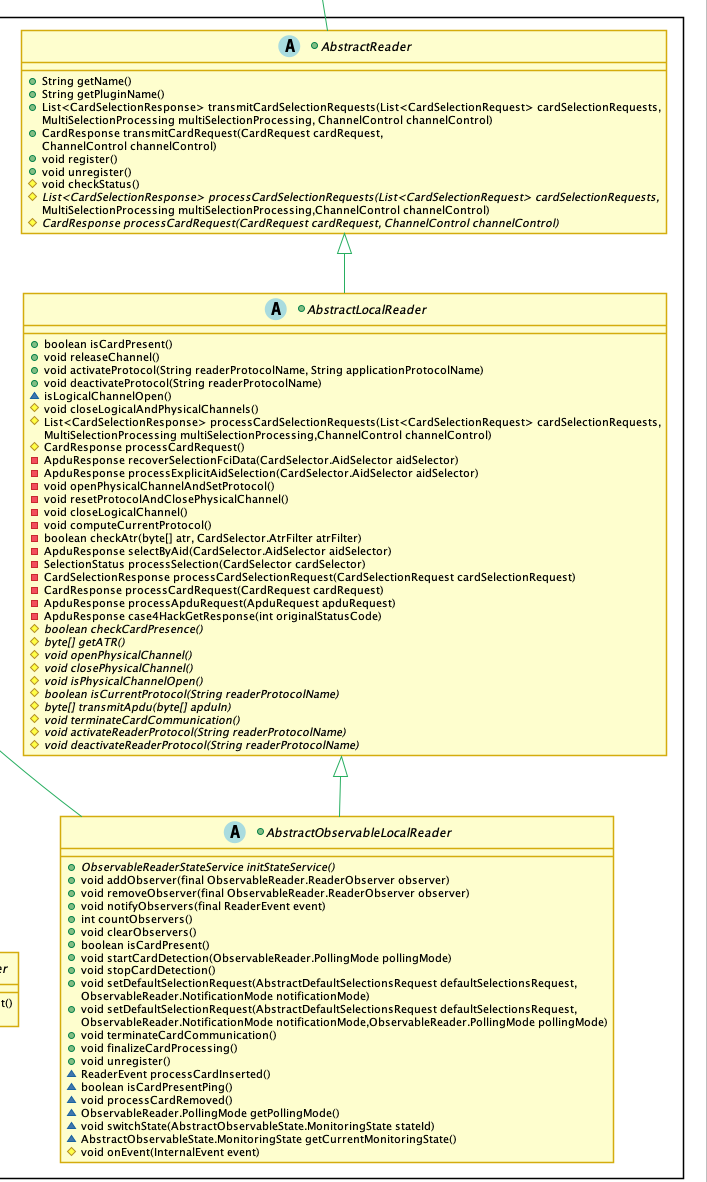
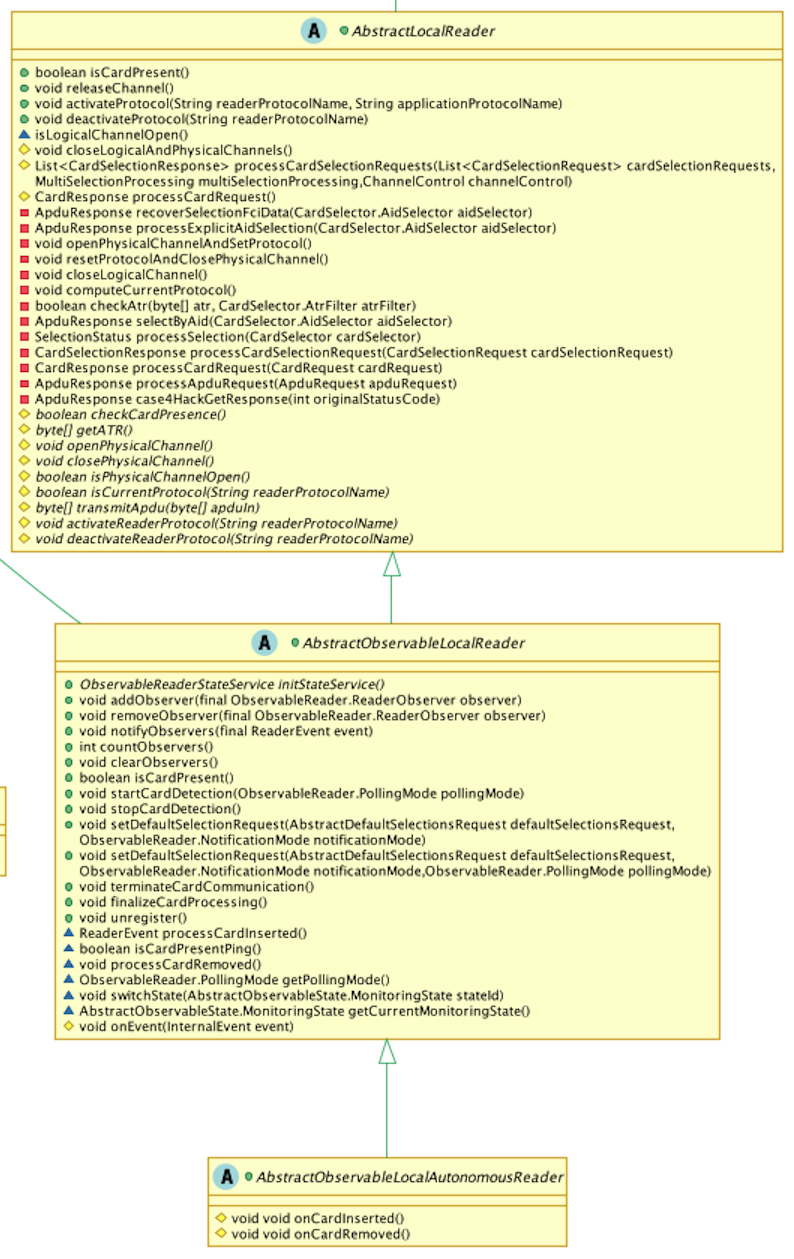
WIP Plugin documentation

diff --git a/content/docs/developer-guide/develop-plugin.md b/content/docs/developer-guide/develop-plugin.md
@@ -9,7 +9,7 @@ weight: 330
 ## Overview
 In order to provide an easy way to port a Keyple applications from a device with a specific card reader to another, a plugin system
 as been developed. When a developer wants to include Keyple features within his project, he has to initialize the SmartCardService by providing a
-plugin Factory available with in the plugin components. The plugin to use depends on the target device and running environment.
+plugin Factory available with in the plugin library. The plugin to use depends on the targeted device and running environment.
 
 For example, for an android device with native NFC we'll use KeypleAndroidNfcPlugin.
 
@@ -26,14 +26,18 @@ Keyple is already provided with various plug-ins ready to use. For example Andro
 But users of the Keyple API may need to use it on new hardware not covered with existing plugins. In this case, a new 
 one must be developed. 
 
-The purpose of this guide is to accompany developers in this process.   
+The purpose of this guide is to support developers in this process.
 
 ## Class diagram of plugin package
+
+For the record, this is a wide view of classes implied in the plugin system. It is designed to natively handle as much 
+use cas as possible while being easy to use. It results of several internal classes, however, plugin's developers will 
+only have to use a few part of this elements.
 
 {{< figure library="true" src="plugin-development/class/Plugin_Class_Full.png" title="" >}} 
 
 ## Steps
-Plugin development relies on 3 main steps, each one consinsiting of implementing a set of abstract classes and methods of
+Plugi'sn development relies on 3 main steps, each one consists in implementing a few set of abstract classes and interfaces of
 plugin package from Keyple Core API:
 1. Import Keyple dependency
 1. Implement a Keyple Reader
@@ -50,14 +54,17 @@ implementation "org.eclipse.keyple:keyple-java-core:$keyple_version"
 
 ## Implement Keyple Reader
 The first step of a Keyple plugin development is the implementation of Keyple Reader Interface (org.eclipse.keyple.core.Reader). 
-This implementation with use hardware's native smartcard sdk to map interface used by Keyple API. 
+This implementation should use device's native smartcard reader library (or sdk package) to map interfaces used by Keyple API. 
 
-This implementation of a local reader must be done through the extension of two abstract class provided within the sdk whose the choice depends
+This implementation of a local reader must be done through the extension of one of three abstract classes provided within the Keyple API. The choice depends
 on expected behaviour of the reader:
 * **AbstractLocalReader**: Basic abstract class to use for local reader implementation.
-* **AbstractObservableLocalReader**: This abstract class is used to manage the matter of observing card events in the case of a local reader 
+* **AbstractObservableLocalReader**: extends AbstractLocalReader and is used to manage the matter of observing card events in the case of a local reader 
 (ie: card insertion, card removal..).
+* **AbstractObservableLocalAutonomousReader**: extends AbstractObservableLocalReader and is used to allow the reader implementation to 
+call back the core when card insertion and removal events occur.
 
+//TODO: Update
 {{< figure library="true" src="plugin-development/class/readers.png" title="Abstract classes to extends for Local Reader implementation" >}} 
 
 Once chosen, the Abstract class must be extended by the new reader class and abstract methods must be implemented. Please refer to your native reader
@@ -65,46 +72,77 @@ documentation to implement this elements.
 
 ### Implementation of AbstractLocalReader's abstract classes 
 
-Relying on  native libraries capacities of the device, implementations to be done are:
+Relying on the native smartcard reader of the device, implementations to be done are:
 
-* boolean checkCardPresence()
-* byte[] getATR()
-* openPhysicalChannel()
-* closePhysicalChannel()
-* boolean isPhysicalChannelOpen()
-* boolean isCurrentProtocol(String readerProtocolName)
-* byte[] transmitApdu(byte[] apduIn)
-* activateReaderProtocol(String readerProtocolName)
-* deactivateReaderProtocol(String readerProtocolName)
-* isContactless()
+| Method to implement| Description                       
+|---------------------------------|------------------------------------
+|**boolean checkCardPresence()**|Verify the presence of the card
+|**byte[] getATR()**|provides the information retrieved when powering up the card
+|**openPhysicalChannel()**|Attempts to open the physical channel
+|**closePhysicalChannel()**|Attempts to close the current physical channel
+|**boolean isPhysicalChannelOpen()**|Tells if the physical channel is open or not
+|**boolean isCurrentProtocol(String readerProtocolName)**|Tells if the current card communicates with the protocol provided as an argument
+|**byte[] transmitApdu(byte[] apduIn)**|Transmits a single APDU and receives its response. Both are in the form of an array of bytes.
+|**activateReaderProtocol(String readerProtocolName)**|Activates the protocol provided from the reader's implementation point of view.
+|**deactivateReaderProtocol(String readerProtocolName)**|Deactivates the protocol provided from the reader's implementation point of view.
+|**isContactless()**|Tells if the current card communication is contactless.
+
+Example of implementations are provided [here](#abstractlocalreader).
 
 ### Implementation of AbstractObservableLocalReader's abstract classes 
 
-#### onEvent()
-Will all to handle events like card insertion, card removal...
+In addition of AbstractLocalReader's methods, specific implementations to be done are:
 
-### ObservableReaderNotifiers
-Observable reader's notification is set up by implementing interfaces. Developer has to choose how the reader should behave regarding
-native abilities of the device. It may involve a few more methods to implement.
-
-Interfaces:
-| Card Insertion                  | Card Removal                       
+#### Methods
+| Method to implement| Description                       
 |---------------------------------|------------------------------------
-| WaitForCardInsertionAutonomous  | WaitForCardRemovalAutonomous |
-| WaitForCardInsertionBlocking    | WaitForCardRemovalBlocking|
-| WaitForCardInsertionNonBlocking | WaitForCardRemovalNonBlocking|
-| ----                            | WaitForCardRemovalDuringProcessing|
+|**void onStartDetection()**|Called when the card detection is started by the Keyple Plugin
+|**void onStopDetection()**|called when the card detection is stopped by the Keyple Plugin
+
+Beside the implementation of this methods, this observable reader's notification behaviour must be set.
+
+#### Observable reader's notification
+Observable reader's notification behaviour is set up by implementing interfaces inheriting from ObservableReaderNotifiers. 
+Developer has to choose how the reader should behave regarding its native abilities. It may involve a few more methods to implement. 
+
+It is __mandatory__ to implement one, and only one, interface of each use case presented in the related columns in the below
+table. 
+
+| Card Insertion                  | Card Removal                       | Card Processing                             
+|---------------------------------|------------------------------------|-------------------------------------
+| WaitForCardInsertionAutonomous  | WaitForCardRemovalAutonomous       | WaitForCardRemovalDuringProcessing
+| WaitForCardInsertionBlocking    | WaitForCardRemovalBlocking         | DontWaitForCardRemovalDuringProcessing
+| WaitForCardInsertionNonBlocking | WaitForCardRemovalNonBlocking      | ---
 
 
-Features:
+Description of the Insertion/Removal behaviours:
 |Type| Description                                                                                                                                                                         |
 |----------------|-------------------------------------------------------------------------------------------------------------------------------------------------------------------------------------|
-| **Autonomous**     | Interface to be implemented by readers that have a fully integrated management of card  communications for card insertion/removal detection                                         |
-| **Blocking**      | Interface to be implemented by readers that are autonomous in the management of waiting for the  insertion/removal of a card and that provide a method to wait for it indefinitely. |
-| **Non Blocking**   | Interface to be implemented by readers that require an active process to detect the card insertion /removal.                                                                        |
-| **During Process** |  Interface to be implemented by readers able to detect a card __removal__ during processing,  between two APDU commands.                                                                 |
+| **[*]Autonomous**     | Interface to be implemented by readers that have a fully integrated management of card  communications for card insertion/removal detection                                         |
+| **[*]Blocking**      | Interface to be implemented by readers that are autonomous in the management of waiting for the  insertion/removal of a card and that provide a method to wait for it indefinitely. |
+| **[*]Non Blocking**   | Interface to be implemented by readers that require an active process to detect the card insertion /removal.                                                                        |
 
-### Examples of implementation
+Description of the processing behaviours:
+|Type| Description                                                                                                                                                                         |
+|----------------|-------------------------------------------------------------------------------------------------------------------------------------------------------------------------------------|
+| **WaitForCardRemovalDuringProcessing** |  Interface to be implemented by readers __able__ to detect a card __removal__ during processing,  between two APDU commands.      
+| **DontWaitForCardRemovalDuringProcessing** |  Interface to be implemented by readers __not able__ to detect a card __removal__ during processing,  between two APDU commands.      
+                                                           |
+Example of implementations are provided [here](#abstractobservablelocalreader).
+
+### Implementation of AbstractObservableLocalAutonomousReader's abstract classes 
+
+In addition of AbstractObservableLocalReader's methods and ObservableReaderNotifiers implementation, specific methods calls must be done:
+
+| Method to call| Description                       
+|---------------------------------|------------------------------------
+|**void onCardInserted()**|This method must be called when a card is inserted to.
+|**void onCardRemoved()**|This method must be called when a card is removed.
+
+Example of implementations are provided [here](#abstractobservablelocalautonomousreader).
+
+## Examples of implementation
+### AbstractLocalReader
 #### checkCardPresence()
 Allow Keyple to check if the secure elements is present within the reader (inserted, in NFC field...)
 
@@ -473,3 +511,105 @@ PC/SC Example
   }
 ```
 
+### AbstractObservableLocalReader
+#### onStartDetection()
+Android NFC Example
+```kotlin
+    override fun onStartDetection() {
+        // When Keyple Core starts detection, we have to use native Android NFC adapter to start nfc scanning
+        if (contextWeakRef.get() == null) {
+            throw IllegalStateException("onStartDetection() failed : no context available")
+        }
+
+        if (nfcAdapter == null) {
+            nfcAdapter = NfcAdapter.getDefaultAdapter(contextWeakRef.get()!!)
+        }
+        val flags = flags
+        val options = options
+        nfcAdapter?.enableReaderMode(contextWeakRef.get(), this, flags, options)
+    }
+```
+
+PC/SC Example
+```java
+  protected void onStartDetection() {
+    //TODO: completion
+  }
+```
+
+#### onStopDetection()
+Android NFC Example
+```kotlin    
+    override fun onStopDetection() {
+         /When keyple core stop detection, we call native adapter stop NFC scanning
+         nfcAdapter?.let {
+             if (contextWeakRef.get() != null) {
+                 it.disableReaderMode(contextWeakRef.get())
+             } else {
+                 throw IllegalStateException("onStopDetection failed : no context available")
+             }
+         }
+    }
+```
+
+PC/SC Example
+```java
+  protected void onStopDetection() {
+    //TODO: completion
+  }
+```
+
+
+### ObservableReaderNotifiers
+Android NFC Example
+```kotlin
+    //Note simplified view of Android NFc implementation
+    class AndroidNfcReader(activity: Activity) :
+        //In android NFC, we want an easy way to callback Keyple Core when a card is inserted
+        //because this event occurs through the native layer.
+        AbstractObservableLocalAutonomousReader( 
+            AndroidNfcReader.PLUGIN_NAME,
+            AndroidNfcReader.READER_NAME
+        ),
+        //Our reader have an integrated management of card insertion detection
+        WaitForCardInsertionAutonomous,
+        //Our reader do not have an integrated management of card removal detection
+        //but we can use it when the card is no longer in the field and trigger a removal event
+        WaitForCardRemovalBlocking,
+        //We do not want to catch card removal between exchanges with it
+        DontWaitForCardRemovalDuringProcessing{}
+```
+
+PC/SC Example
+```java
+     //We want to observe card events like insertion, removal...
+    class AbstractPcscReader extends bstractObservableLocalReader implements PcscReader, 
+        //Our native reader do not have an integrated management of card insertion detection
+        //but we can use it when the card is in the field and trigger an insertion event
+        WaitForCardInsertionBlocking, 
+        //We want to detect when card is removed while exchanging data with our reader
+        WaitForCardRemovalDuringProcessing, 
+        //Our native reader do not have an integrated management of card removal detection
+        //but we can use it when the card is no longer in the field and trigger a removal event
+        WaitForCardRemovalBlocking {}
+```
+
+### AbstractObservableLocalAutonomousReader
+#### onCardInserted()
+Android NFC Example
+```kotlin
+    //Note simplified view of Android NFc implementation
+    override fun onTagDiscovered(tag: Tag?) {
+        tag?.let {
+            try {
+                tagProxy = TagProxy.getTagProxy(tag)
+                //onTagDiscovered is triggered natively
+                //we use below code to forward the information to Keyple core
+                onCardInserted()
+            } catch (e: KeypleReaderException) {
+                Timber.e(e)
+            }
+        }
+    }
+```
+#### onCardRemoved()
